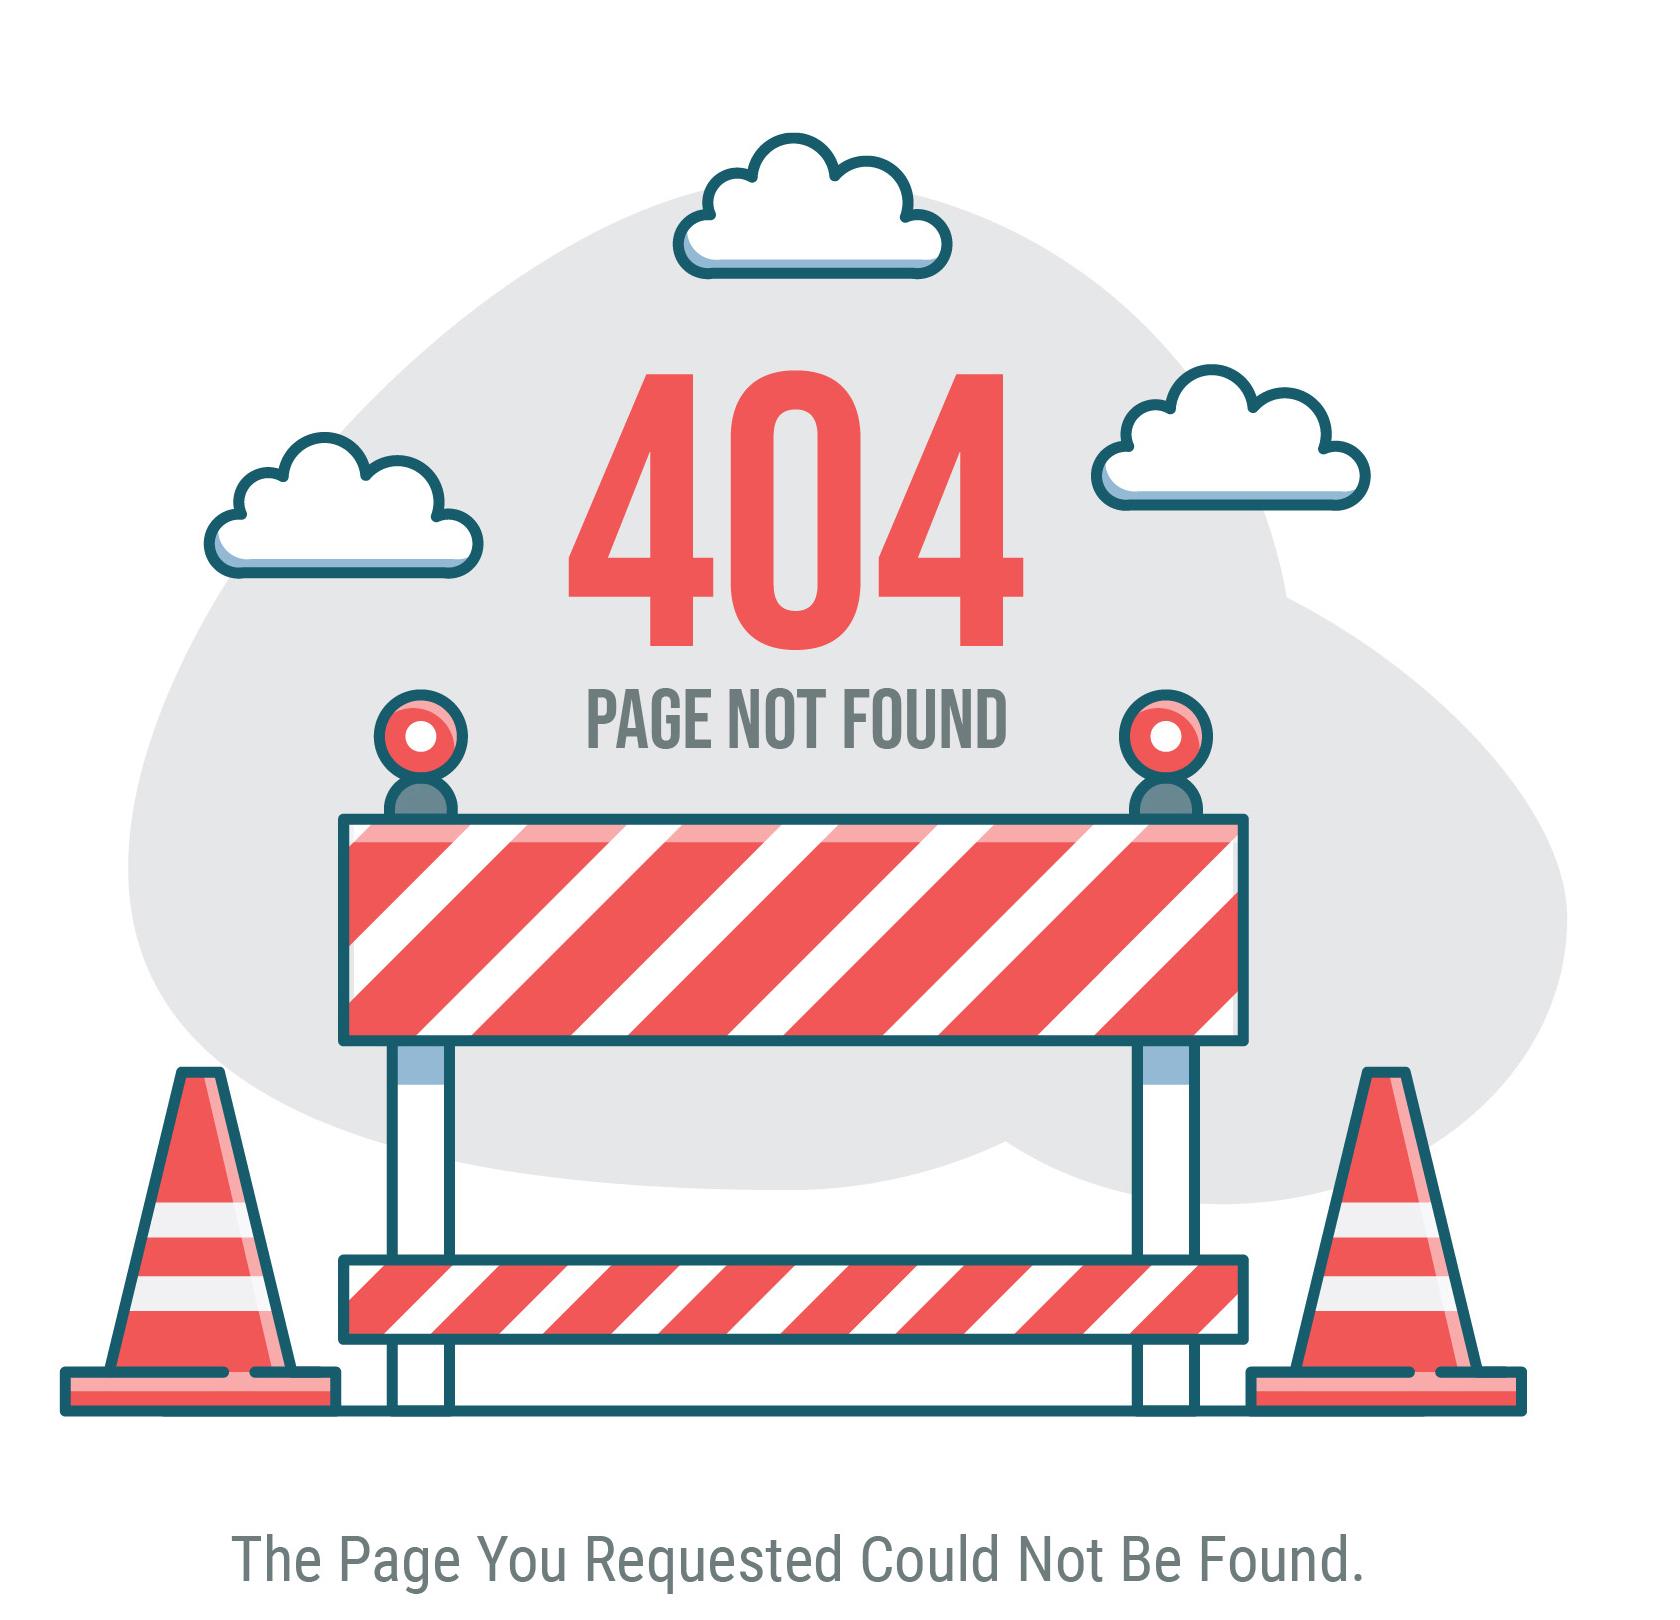
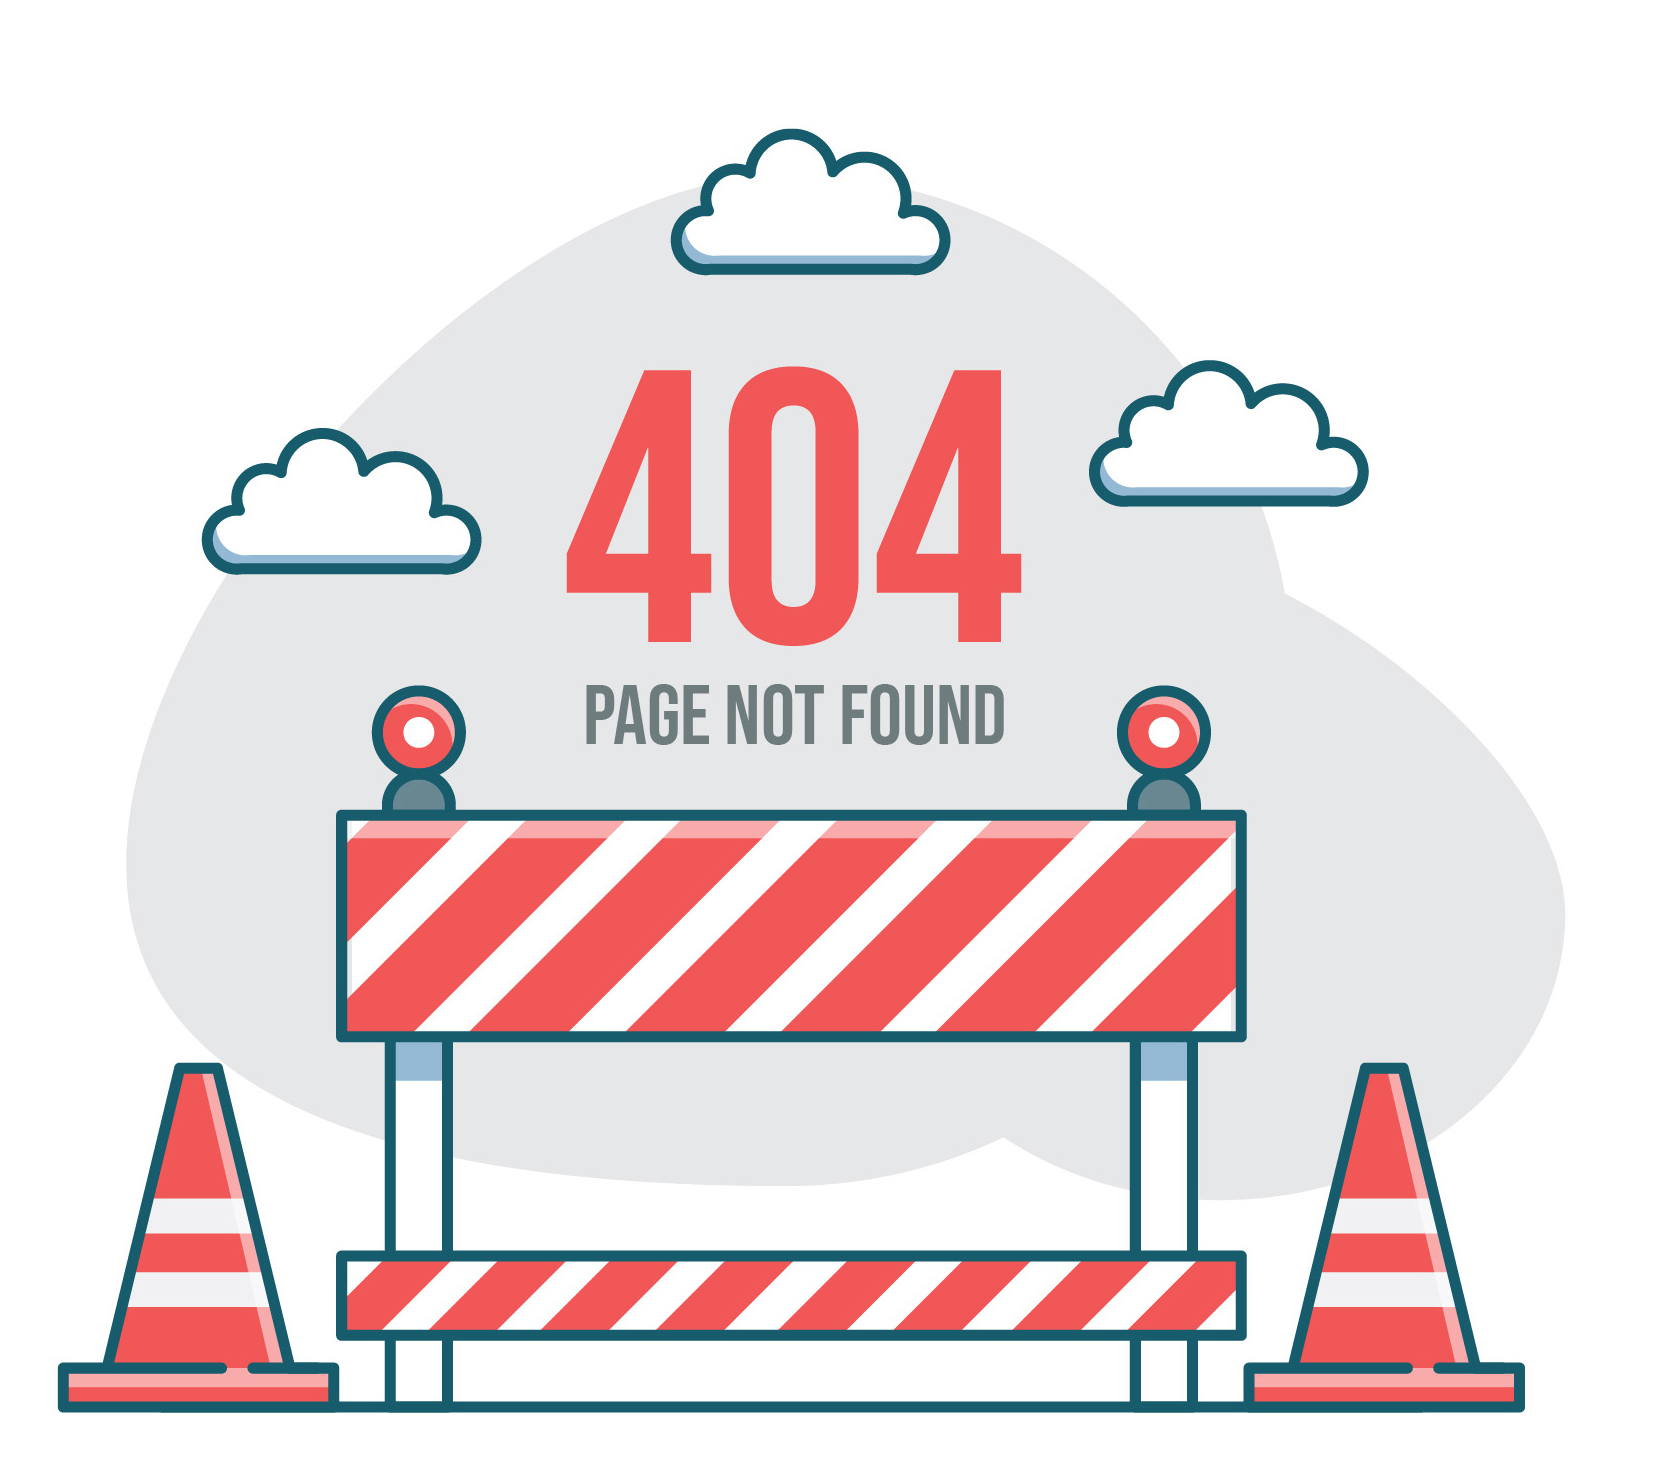
Edited 404

diff --git a/pages/404.tsx b/pages/404.tsx
@@ -1,4 +1,4 @@
-import { Button, Flex } from "@chakra-ui/react";
+import { Button, Flex, Text } from "@chakra-ui/react";
 import Image from "next/image";
 import Link from "next/link";
 import React from "react";
@@ -16,7 +16,9 @@ const Custom404 = () => {
       minWidth="100%"
     >
       <Image src={image404} height={900} width={900} />
-
+      <Text fontSize="4xl" my="3">
+        The Page you requested could not be found.
+      </Text>
       <Button size="lg" onClick={() => router.back()}>
         Go back
       </Button>
